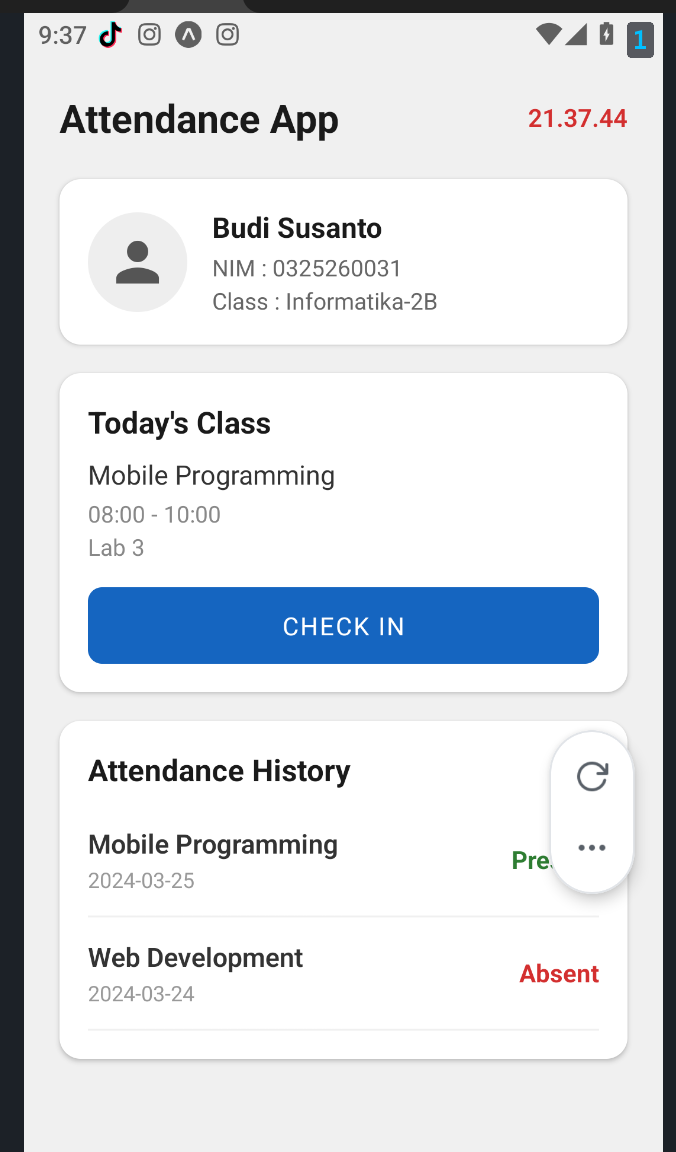
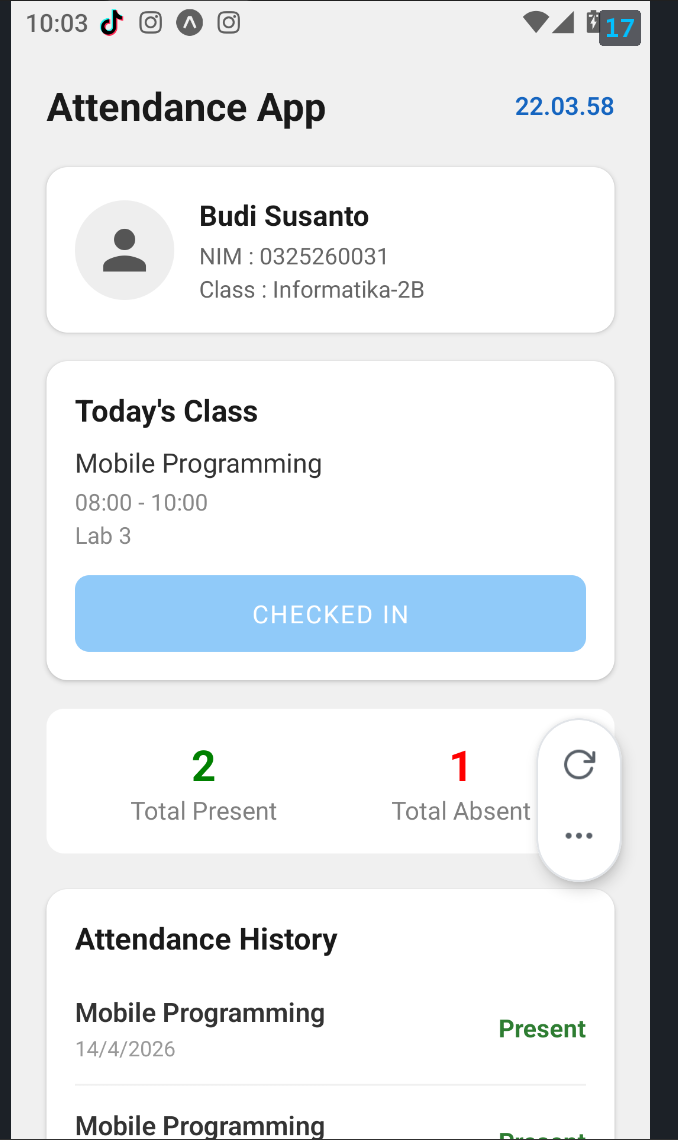
commit 2

diff --git a/pages/home.js b/pages/home.js
@@ -1,9 +1,10 @@
-    import { useState, useEffect } from "react";
+    import React, { useState, useEffect, useMemo, useRef } from "react";
     import { View, Text, StyleSheet, 
         TouchableOpacity, 
         ScrollView,
         FlatList,
-        Alert } from "react-native";
+        Alert,
+        TextInput } from "react-native";
     import { SafeAreaView } from "react-native-safe-area-context";
     import { MaterialIcons } from "@expo/vector-icons";
 
@@ -19,8 +20,24 @@ const Home = () => {
     // 2. State untuk status tombol check-in
     const [isCheckedIn, setIsCheckedIn] = useState(false);
 
-    // 3. State untuk jam digital
+    // 3. STATE UNTUK JAM DIGITAL
     const [currentTime, setCurrentTime] = useState("Memuat jam...");
+
+    // 4. STATE & REF UNTUK CATATAN (Baru)
+    const [note, setNote] = useState('');
+    const noteInputRef = useRef(null); // Membuat "kait" kosong untuk UI
+
+    // 5. OPTIMASI KOMPUTASI DENGAN useMemo
+    const attendanceStats = useMemo(() => {
+        // Teks ini hanya akan tercetak di terminal HANYA jika historyData bertambah,
+        // BUKAN setiap detik saat jam berubah!
+        console.log("Menghitung ulang statistik kehadiran ...");
+
+        const presentCount = historyData.filter(item => item.status === 'Present').length;
+        const absentCount = historyData.filter(item => item.status === 'Absent').length;
+
+        return { totalPresent: presentCount, totalAbsent: absentCount };
+    }, [historyData]); // <-- Dependencies: Hanya hitung ulang kalau 'historyData' berubah
 
     // 4. useEffect untuk jam real-time
     useEffect(() => {
@@ -37,45 +54,49 @@ const Home = () => {
         return () => clearInterval(timer);
     }, []);
 
-    // 5. Fungsi handleCheckIn (LANGKAH 4)
+    // FUNGSI LOGIKA ABSEN (Diperbarui)
     const handleCheckIn = () => {
         if (isCheckedIn) {
-        Alert.alert("Perhatian", "Anda sudah melakukan Check In untuk kelas ini.");
-        return;
+            Alert.alert("Perhatian", "Anda sudah melakukan Check In.");
+            return;
         }
 
-        // Buat data presensi baru
+        // Validasi Catatan menggunakan useRef
+        if (note.trim() === '') {
+            Alert.alert("Peringatan", "Catatan kehadiran wajib diisi!");
+            noteInputRef.current.focus(); // <-- Sihir useRef: Memaksa kursor pindah ke input
+            return;
+        }
+
         const newAttendance = {
-        id: Date.now().toString(),
-        course: "Mobile Programming",
-        date: new Date().toLocaleDateString("id-ID"),
-        status: "Present",
+            id: Date.now().toString(),
+            course: "Mobile Programming",
+            date: new Date().toLocaleDateString("id-ID"),
+            status: "Present",
+            // Anda juga bisa menambahkan properti catatan ke objek jika ingin ditampilkan
         };
 
-        // Tambahkan ke historyData (di paling atas)
         setHistoryData([newAttendance, ...historyData]);
-
-        // Kunci tombol
         setIsCheckedIn(true);
-
         Alert.alert("Sukses", `Berhasil Check In pada pukul ${currentTime}`);
     };
 
     // 6. Render item FlatList (sama seperti W2)
     const renderItem = ({ item }) => (
         <View style={styles.historyItem}>
-        <View>
-            <Text style={styles.courseText}>{item.course}</Text>
-            <Text style={styles.dateText}>{item.date}</Text>
-        </View>
-        <Text
-            style={[
-            styles.statusText,
-            item.status === "Present" ? styles.present : styles.absent,
-            ]}
-        >
-            {item.status}
-        </Text>
+            <View>
+                <Text style={styles.courseName}>{item.course}</Text>
+                <Text style={styles.courseDate}>{item.date}</Text>
+            </View>
+            <Text
+                style={
+                    item.status === "Present"
+                        ? styles.statusPresent
+                        : styles.statusAbsent
+                }
+            >
+                {item.status}
+            </Text>
         </View>
     );
 
@@ -109,6 +130,18 @@ const Home = () => {
                     <Text style={styles.classText}>Mobile Programming</Text>
                     <Text style={styles.classDetail}>08:00 - 10:00</Text>
                     <Text style={styles.classDetail}>Lab 3</Text>
+
+                    {/* Fitur Baru: Kolom Input Catatan dengan useRef */}
+                    {!isCheckedIn && (
+                        <TextInput
+                            ref={noteInputRef} // <-- Menempelkan referensi ke elemen ini
+                            style={styles.inputCatatan}
+                            placeholder="Tulis catatan (cth: Hadir lab)"
+                            value={note}
+                            onChangeText={setNote}
+                        />
+                    )}
+
                     <TouchableOpacity
                         style={[styles.button, isCheckedIn && styles.buttonChecked]}
                         onPress={handleCheckIn}
@@ -120,27 +153,27 @@ const Home = () => {
                     </TouchableOpacity>
                 </View>
 
+                {/* Fitur Baru: Statistik Kehadiran (Hasil useMemo) */}
+                <View style={styles.statsCard}>
+                    <View style={styles.statBox}>
+                        <Text style={styles.statNumber}>{attendanceStats.totalPresent}</Text>
+                        <Text style={styles.statLabel}>Total Present</Text>
+                    </View>
+                    <View style={styles.statBox}>
+                        <Text style={[styles.statNumber, { color: 'red' }]}>{attendanceStats.totalAbsent}</Text>
+                        <Text style={styles.statLabel}>Total Absent</Text>
+                    </View>
+                </View>
+
                 {/* Attendance History */}
                 <View style={styles.historySection}>
                     <Text style={styles.subtitle}>Attendance History</Text>
-
-                    {historyData.map((item) => (
-                        <View key={item.id} style={styles.historyItem}>
-                            <View>
-                                <Text style={styles.courseName}>{item.course}</Text>
-                                <Text style={styles.courseDate}>{item.date}</Text>
-                            </View>
-                            <Text
-                                style={
-                                    item.status === "Present"
-                                        ? styles.statusPresent
-                                        : styles.statusAbsent
-                                }
-                            >
-                                {item.status}
-                            </Text>
-                        </View>
-                    ))}
+                    <FlatList
+                        data={historyData}
+                        keyExtractor={(item) => item.id}
+                        renderItem={renderItem}
+                        scrollEnabled={false}
+                    />
                 </View>
 
             </ScrollView>
@@ -303,5 +336,35 @@ const styles = StyleSheet.create({
         color: "#D32F2F",
         fontWeight: "bold",
         fontSize: 14,
+    },
+
+    // agar kolom input dan kotak statistiknya terlihat rapi dan selaras dengan desain
+    inputCatatan: {
+        borderWidth: 1,
+        borderColor: '#ccc',
+        borderRadius: 8,
+        padding: 10,
+        marginTop: 15,
+        backgroundColor: '#fafafa',
+    },
+    statsCard: {
+        flexDirection: 'row',
+        justifyContent: 'space-around',
+        backgroundColor: "white",
+        padding: 15,
+        borderRadius: 10,
+        marginBottom: 20,
+    },
+    statBox: {
+        alignItems: 'center',
+    },
+    statNumber: {
+        fontSize: 24,
+        fontWeight: 'bold',
+        color: 'green',
+    },
+    statLabel: {
+        fontSize: 14,
+        color: 'gray',
     },
 });
